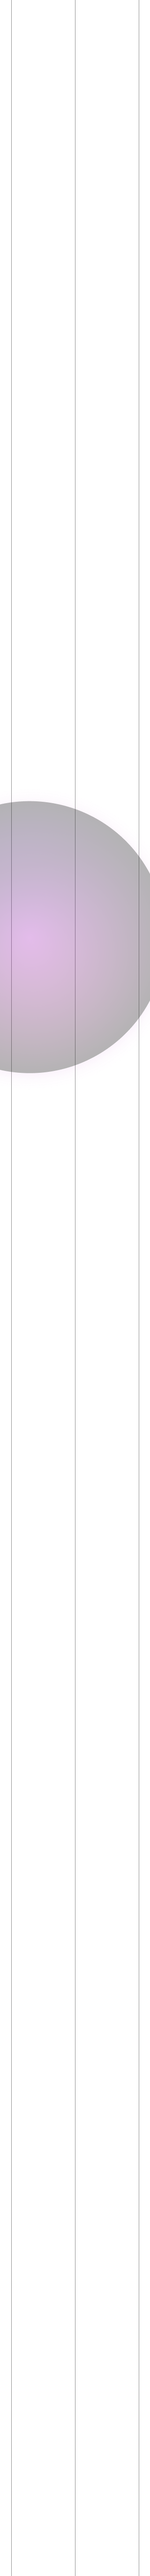
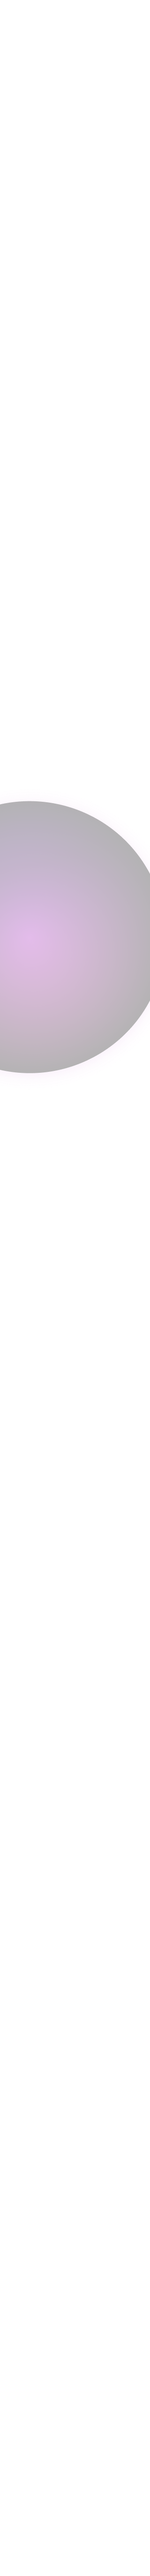
fix(ui-ux): background update

diff --git a/src/layouts/Default.tsx b/src/layouts/Default.tsx
@@ -19,7 +19,7 @@ export function Default(props: PropsWithChildren<any>): JSX.Element | null {
   const [mounted, setMounted] = useState(false);
   const isHome = router.pathname === "/";
   const bgPicture = isHome
-    ? "bg-[url(/assets/img/background/background-320.png)] md:bg-[url(/assets/img/background/background-768.png)] lg:bg-[url(/assets/img/background/background-1440.png)] xl:bg-[url(/assets/img/background/background-1920.png)] 2xl:bg-[url(/assets/img/background/background-2560.png)]"
+    ? "bg-[url(/assets/img/background/background-320.png)] sm:bg-[url(/assets/img/background/background-768.png)] md:bg-[url(/assets/img/background/background-1024.png)] lg:bg-[url(/assets/img/background/background-1440.png)] 2xl:bg-[url(/assets/img/background/background-1920.png)]"
     : "bg-fixed bg-[url(/assets/img/background/generic-background-320.png)] md:bg-[url(/assets/img/background/generic-background-1920.png)]";
 
   useEffect(() => {
